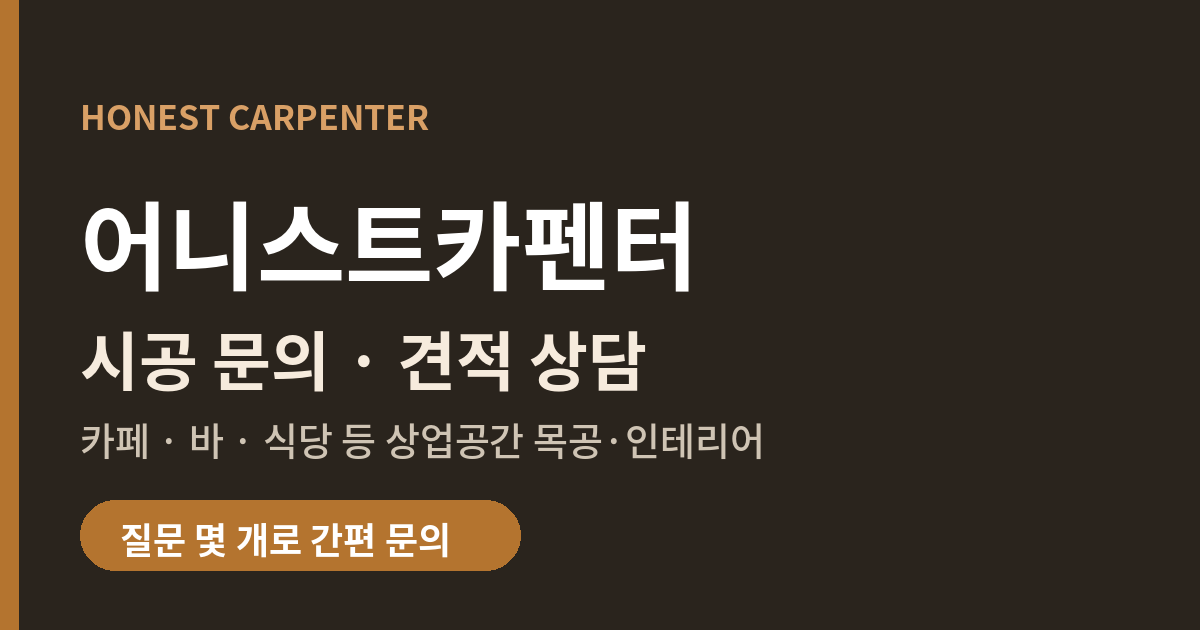
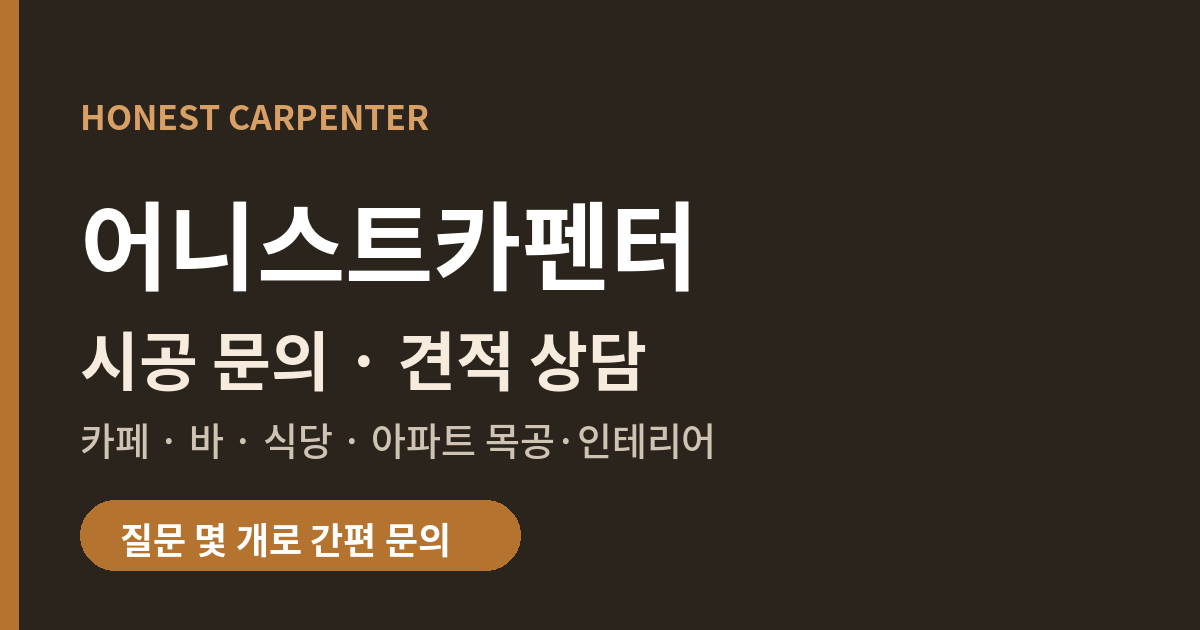
아파트/주택 공간 유형 추가 및 소개 문구 수정
Claude-Session: https://claude.ai/code/session_01HYTG7okR7z5wCYSXF6QucT

Changed region(s): [[0.2775, 0.6635, 0.6475, 0.7238]]

diff --git a/index.html b/index.html
@@ -4,11 +4,11 @@
 <meta charset="UTF-8">
 <meta name="viewport" content="width=device-width, initial-scale=1">
 <title>어니스트카펜터 | 시공 문의</title>
-<meta name="description" content="카페, 바, 레스토랑 등 상업 공간 목공·인테리어. 질문 몇 개에 답하고 문자로 바로 견적 상담을 받아 보세요.">
+<meta name="description" content="카페·바·식당 등 상업공간부터 아파트까지 목공·인테리어. 질문 몇 개에 답하고 문자로 바로 견적 상담을 받아 보세요.">
 <meta property="og:type" content="website">
 <meta property="og:site_name" content="어니스트카펜터">
 <meta property="og:title" content="어니스트카펜터 | 시공 문의 · 견적 상담">
-<meta property="og:description" content="카페·바·식당 등 상업공간 목공·인테리어. 질문 몇 개에 답하면 문의 내용이 자동으로 만들어져요. 반셀프 방식으로 합리적인 비용.">
+<meta property="og:description" content="카페·바·식당 등 상업공간부터 아파트까지 목공·인테리어. 질문 몇 개에 답하면 문의 내용이 자동으로 만들어져요. 반셀프 방식으로 합리적인 비용.">
 <meta property="og:url" content="https://89helim-oss.github.io/-honest_carpenter/">
 <meta property="og:image" content="https://89helim-oss.github.io/-honest_carpenter/og.png">
 <meta property="og:image:width" content="1200">
@@ -74,7 +74,7 @@ const CONFIG = {
     { id:"semi",  name:"반턴키",  desc:"반셀프 방식 + 감리·디자인 (인건비만)", save:"턴키 대비 약 20~30% 저렴" },
     { id:"turn",  name:"턴키",    desc:"설계부터 시공까지 전부 맡기기",            save:"" }
   ],
-  space:  ["카페","바 / 혼술바","식당 / 레스토랑","미용실 / 뷰티샵","사무실","체육관 / 학원","기타 상업공간"],
+  space:  ["카페","바 / 혼술바","식당 / 레스토랑","미용실 / 뷰티샵","사무실","체육관 / 학원","아파트 / 주택","기타 공간"],
   region: [
     { t:"수도권", s:"서울 · 경기 · 인천" },
     { t:"그 외 지방", s:"출장 · 숙식 제공 필요" }
